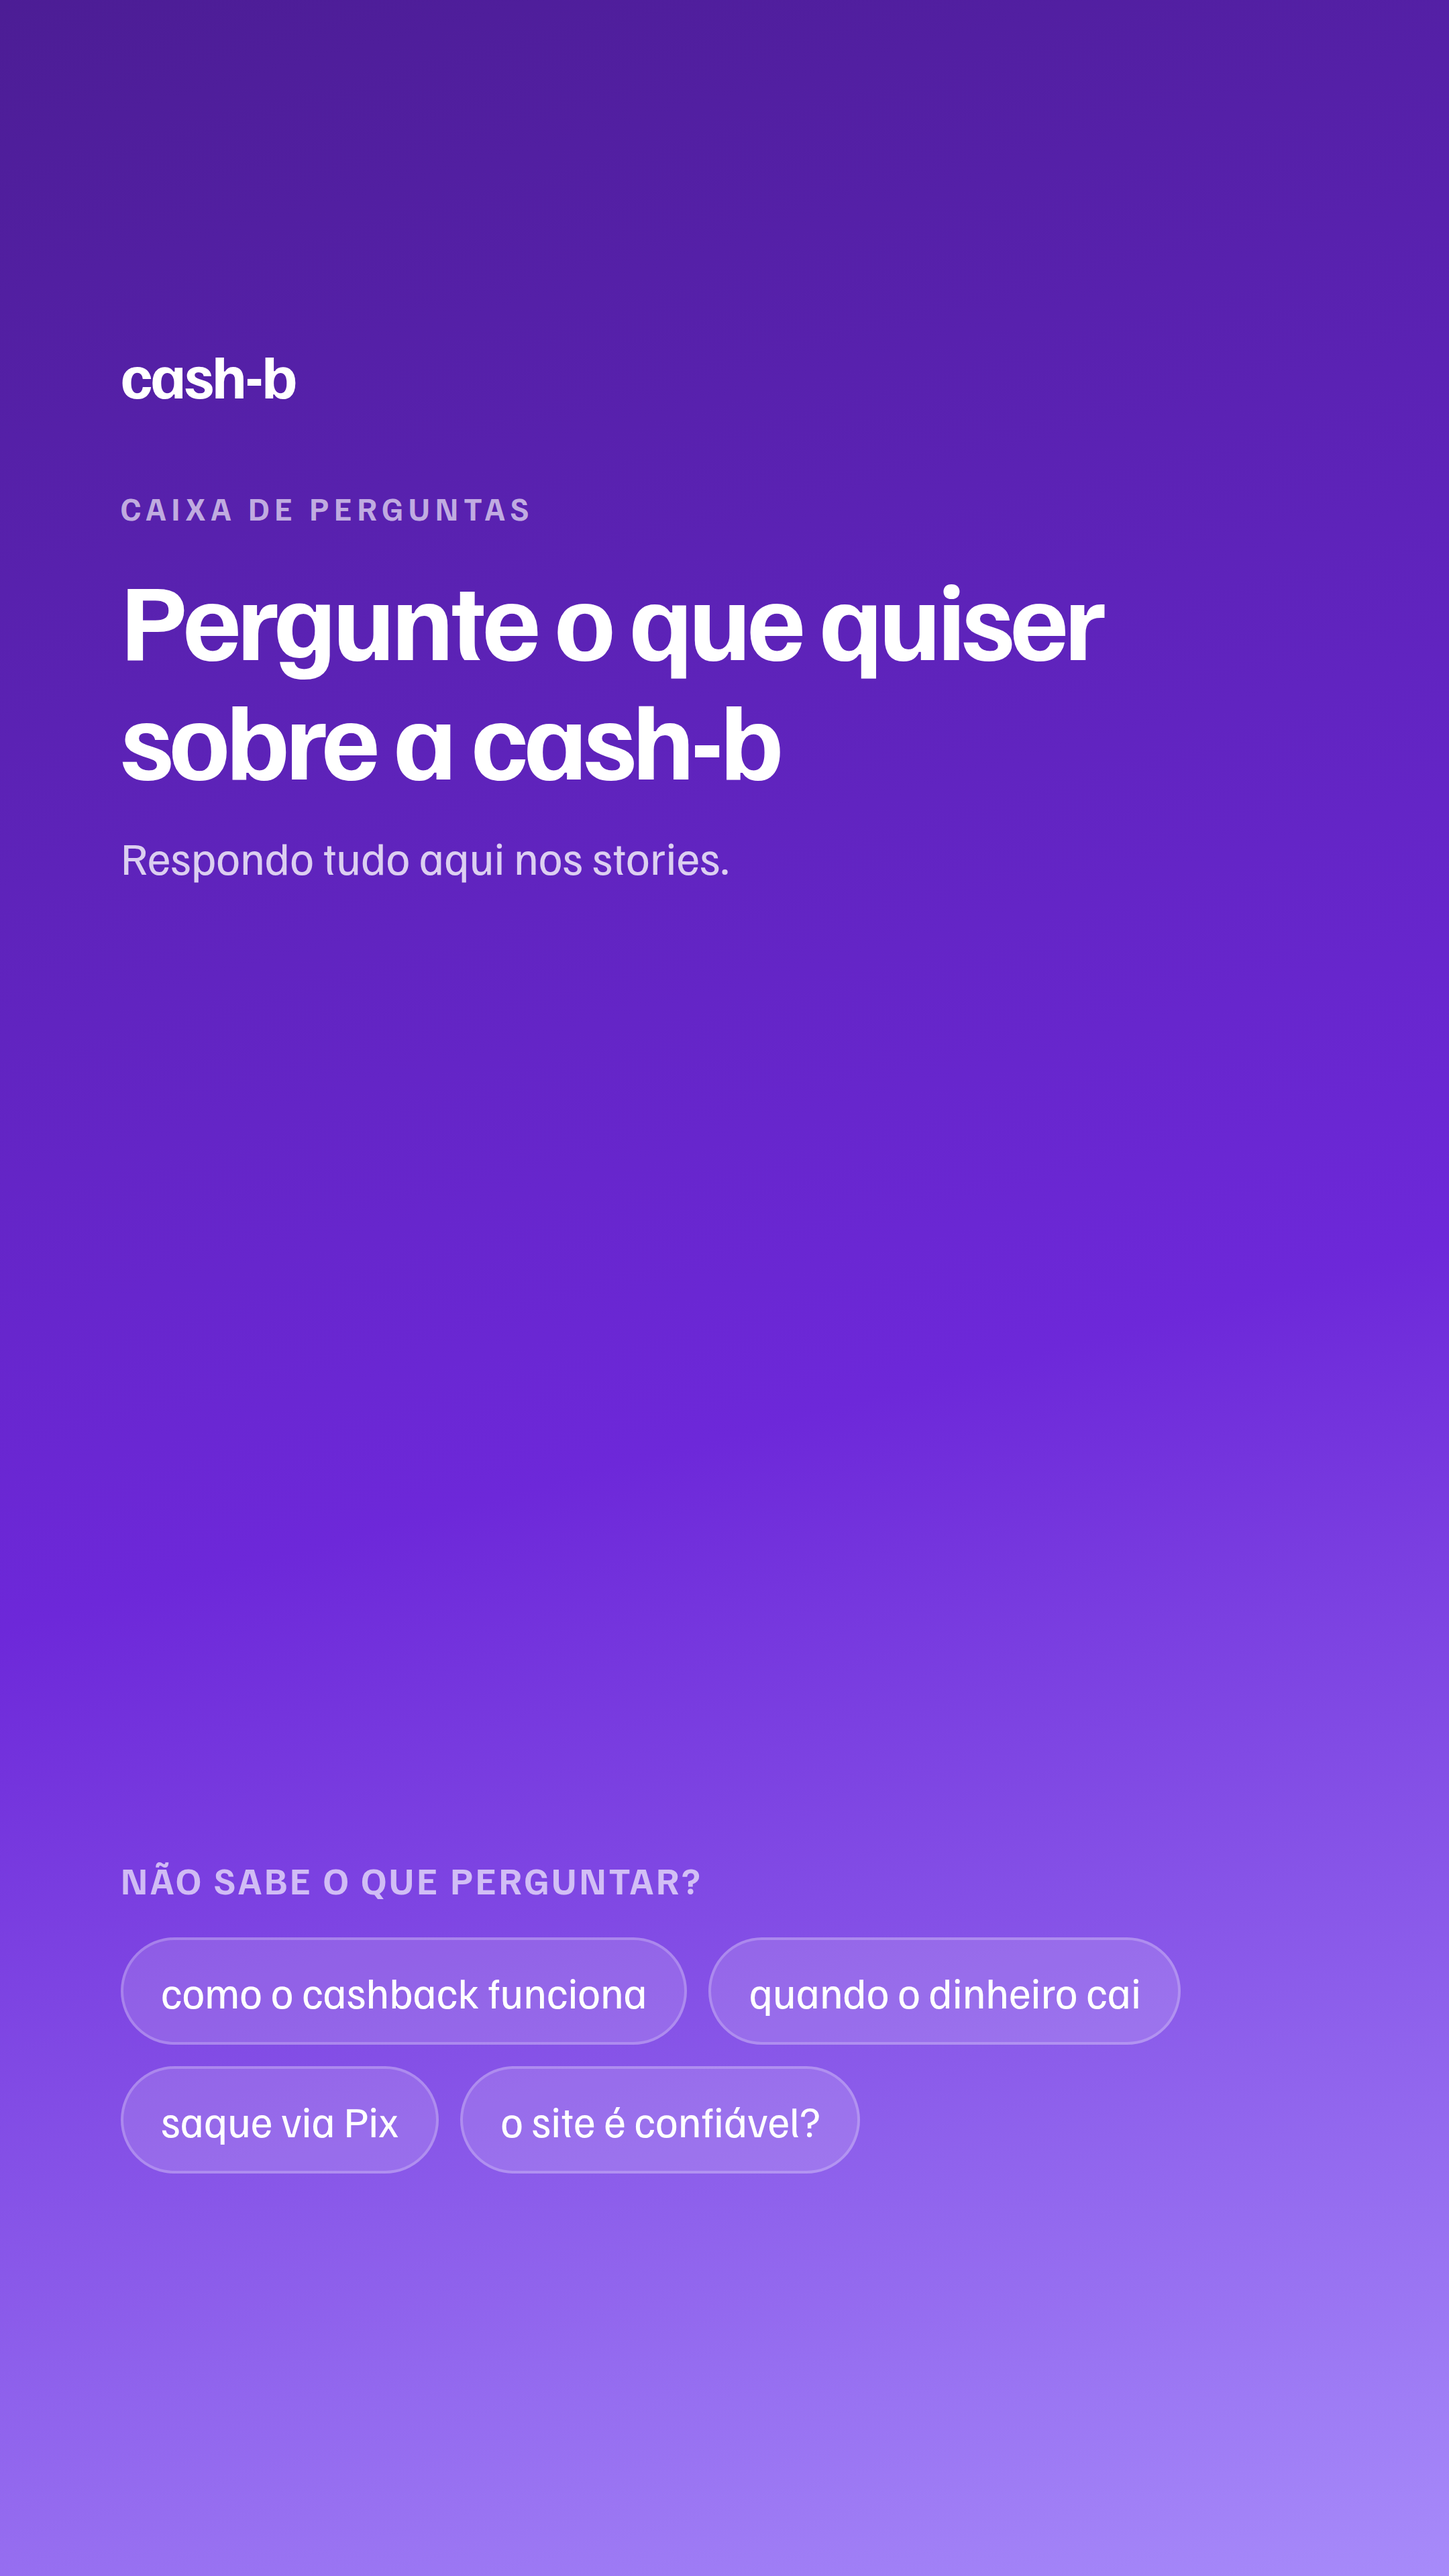
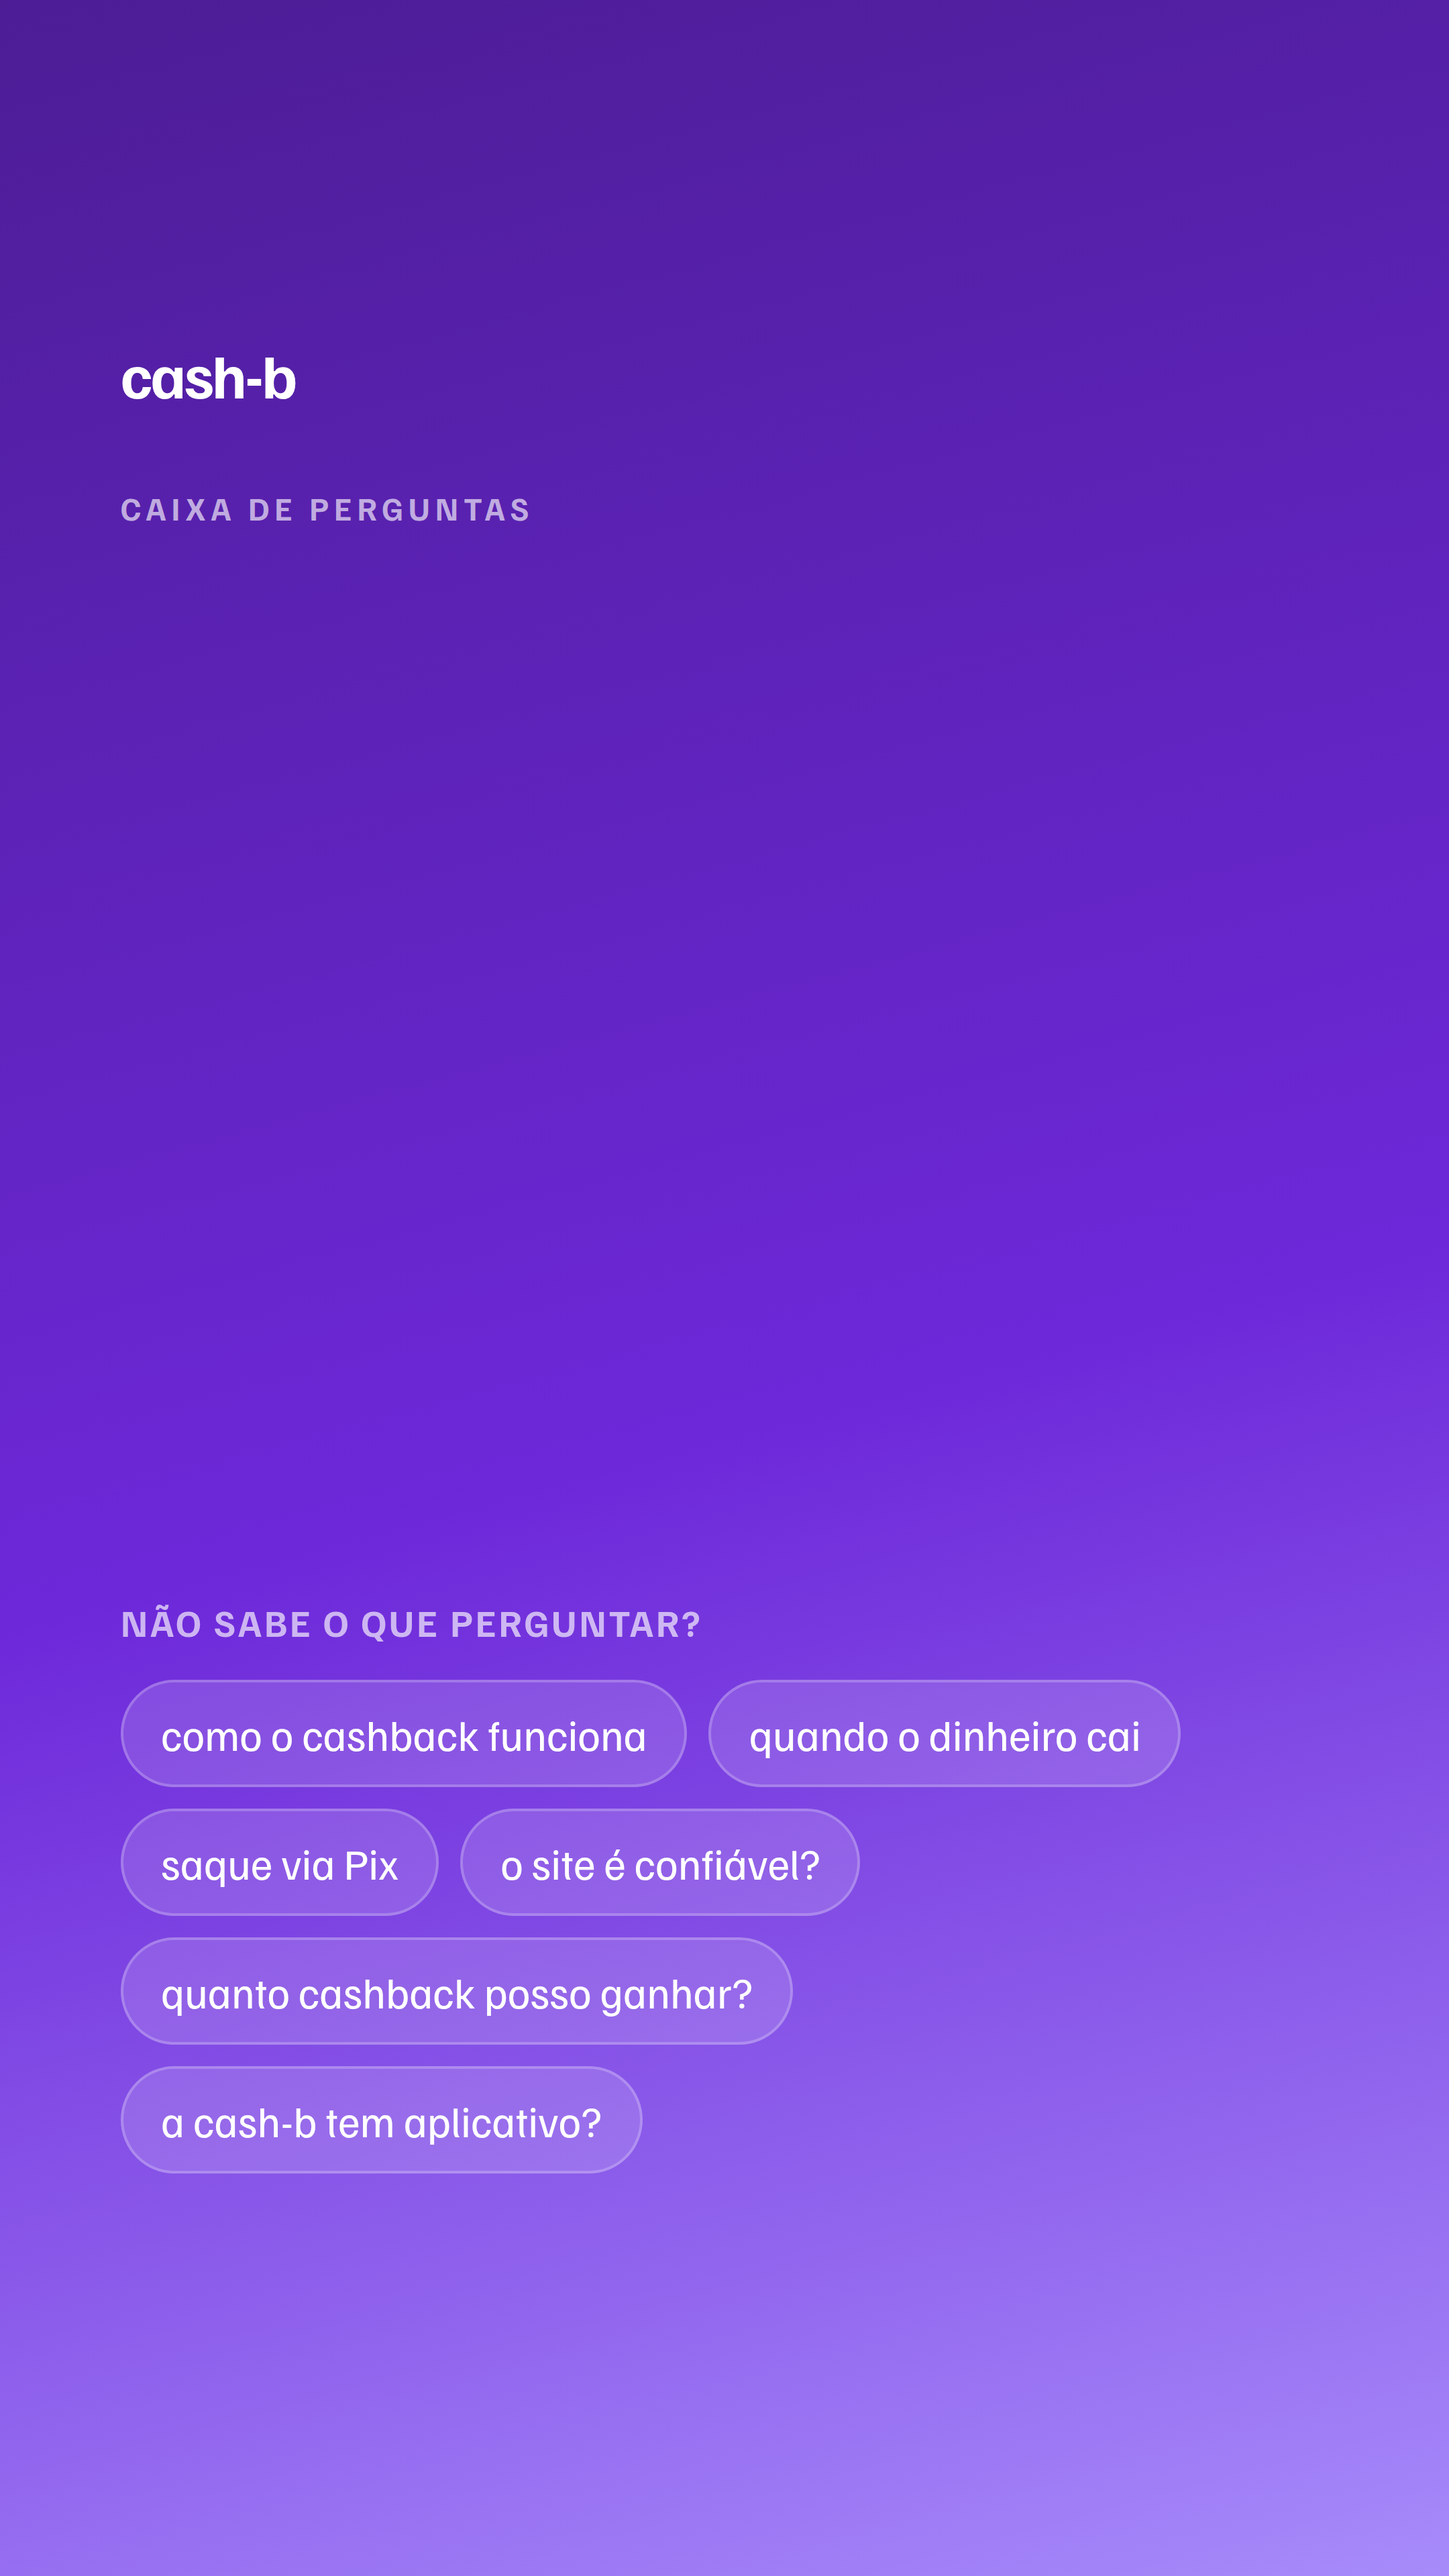
Story de perguntas: sem convite escrito e com mais dois exemplos
Ajuste pedido pelo dono do produto. Sai o titulo "Pergunte o que quiser" e a
linha "Respondo tudo aqui nos stories": a propria figurinha do Instagram tem um
campo de texto onde o convite e escrito na hora de postar, entao a frase acima
dela dizia duas vezes a mesma coisa.

Entram "quanto cashback posso ganhar?" e "a cash-b tem aplicativo?" na lista de
exemplos. Com o nome da marca dentro de uma pastilha, as pastilhas ganharam
nowrap - o navegador quebra linha depois de hifen, e "cash-b" partido lê como
erro de digitacao.

Claude-Session: https://claude.ai/code/session_017WZWLEiMQvHUst5KUYseHY

Changed region(s): [[0.062, 0.625, 0.8375, 0.7812], [0.062, 0.2188, 0.7755, 0.3438], [0.1241, 0.8125, 0.5583, 0.8438]]

diff --git a/marketing/instagram/gerar_story_perguntas.py b/marketing/instagram/gerar_story_perguntas.py
@@ -7,9 +7,11 @@ tipo de arte.
 
 Os exemplos embaixo não são enfeite. Caixa de pergunta sem sugestão recebe pouca
 resposta: quem está passando o dedo não para para inventar uma dúvida, mas reconhece a
-própria dúvida numa lista. Os quatro são os assuntos que o site mais explica
-(regras_cashback.html, e_confiavel.html, faq.html) - ou seja, o que já se sabe que as
-pessoas perguntam.
+própria dúvida numa lista.
+
+A arte não traz convite escrito ("pergunte o que quiser" e afins): a própria figurinha
+do Instagram já tem um campo de texto onde o convite é escrito na hora de postar, e
+repetir a mesma frase acima dela seria dizer duas vezes a mesma coisa.
 
 Sem promessa de anonimato na arte: quem manda a pergunta fica visível para o dono da
 conta, e só é anônimo para quem vê a resposta publicada. Escrever "pergunta anônima"
@@ -30,10 +32,8 @@ from carrossel_base import (
     BRAND_PRIMARY,
     DARK_BG,
     FAMILJEN_B64,
-    JBMONO_B64,
     LIGHT_BG,
     MARCA,
-    MUTED,
 )
 
 REPO_ROOT = Path(__file__).resolve().parents[2]
@@ -47,20 +47,19 @@ ESCALA = 2
 # não encostar nela mesmo se você arrastar a figurinha um pouco para cima ou para baixo.
 ALTURA_VAO = 520
 
-TITULO = f"Pergunte o que quiser sobre a {MARCA}"
-CHAMADA = "Respondo tudo aqui nos stories."
 EXEMPLOS = [
     "como o cashback funciona",
     "quando o dinheiro cai",
     "saque via Pix",
     "o site é confiável?",
+    "quanto cashback posso ganhar?",
+    f"a {MARCA} tem aplicativo?",
 ]
 
 
 def _pagina(claro: bool) -> str:
     fundo = LIGHT_BG if claro else BRAND_GRADIENT
     tinta = DARK_BG if claro else "#fff"
-    tinta_suave = MUTED if claro else "rgba(255,255,255,0.78)"
     tinta_tag = BRAND_PRIMARY if claro else "rgba(255,255,255,0.65)"
     chip_fundo = "rgba(109,40,217,0.08)" if claro else "rgba(255,255,255,0.14)"
     chip_borda = "rgba(109,40,217,0.18)" if claro else "rgba(255,255,255,0.22)"
@@ -69,7 +68,6 @@ def _pagina(claro: bool) -> str:
 
     return f"""<html><head><style>
     @font-face {{ font-family:"Familjen"; src:url(data:font/woff2;base64,{FAMILJEN_B64}) format("woff2"); font-weight:400 700; }}
-    @font-face {{ font-family:"JB Mono"; src:url(data:font/woff2;base64,{JBMONO_B64}) format("woff2"); font-weight:400 700; }}
     * {{ box-sizing:border-box; margin:0; padding:0; }}
     html, body {{
         width:{LARGURA}px; height:{ALTURA}px; background:{fundo};
@@ -84,25 +82,24 @@ def _pagina(claro: bool) -> str:
         font-size:24px; font-weight:700; letter-spacing:4px; text-transform:uppercase;
         color:{tinta_tag}; margin-top:56px;
     }}
-    .titulo {{ font-size:82px; font-weight:700; letter-spacing:-0.035em; line-height:1.08; margin-top:22px; }}
-    .chamada {{ font-size:34px; color:{tinta_suave}; margin-top:24px; line-height:1.35; }}
     /* O vão. É o motivo de a arte existir: a figurinha de perguntas entra aqui.
        flex:1 em vez de altura fixa para ele comer toda a sobra - assim o texto de cima
        encosta no topo da área segura e os exemplos encostam na base dela, sem espaço
        morto numa das pontas. O min-height é o piso: o vão nunca fica menor que a
-       figurinha, mesmo que o título cresça. */
+       figurinha, mesmo que a lista de exemplos cresça. */
     .vao {{ flex:1; min-height:{ALTURA_VAO}px; }}
     .rodape-titulo {{ font-size:28px; font-weight:700; letter-spacing:2px; text-transform:uppercase; color:{tinta_tag}; }}
     .chips {{ display:flex; flex-wrap:wrap; gap:16px; margin-top:26px; }}
+    /* nowrap: rótulo de uma linha só. Além de ser o que uma pastilha deve ser, protege
+       o nome da marca - o navegador quebra linha depois de hífen, e "cash-b" partido
+       vira "cash-" numa linha e "b" na outra, que lê como erro de digitação. */
     .chip {{
-        font-size:32px; padding:18px 28px; border-radius:999px;
+        font-size:32px; padding:18px 28px; border-radius:999px; white-space:nowrap;
         background:{chip_fundo}; border:2px solid {chip_borda}; color:{tinta};
     }}
     </style></head><body>
         <div class="marca">cash-b</div>
         <div class="tag">caixa de perguntas</div>
-        <div class="titulo">{TITULO}</div>
-        <div class="chamada">{CHAMADA}</div>
         <div class="vao"></div>
         <div class="rodape-titulo">não sabe o que perguntar?</div>
         <div class="chips">{chips}</div>
